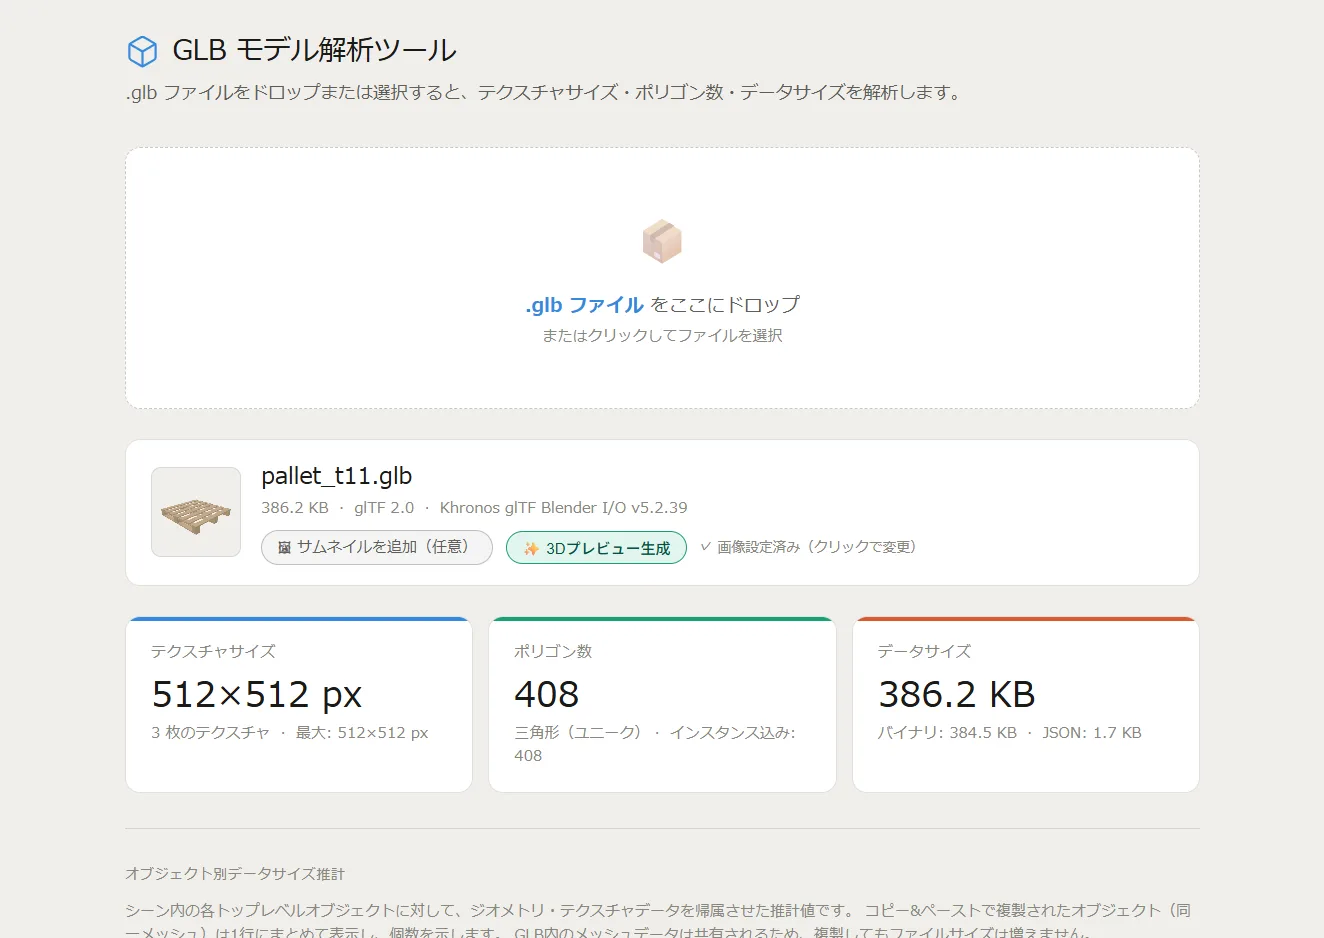
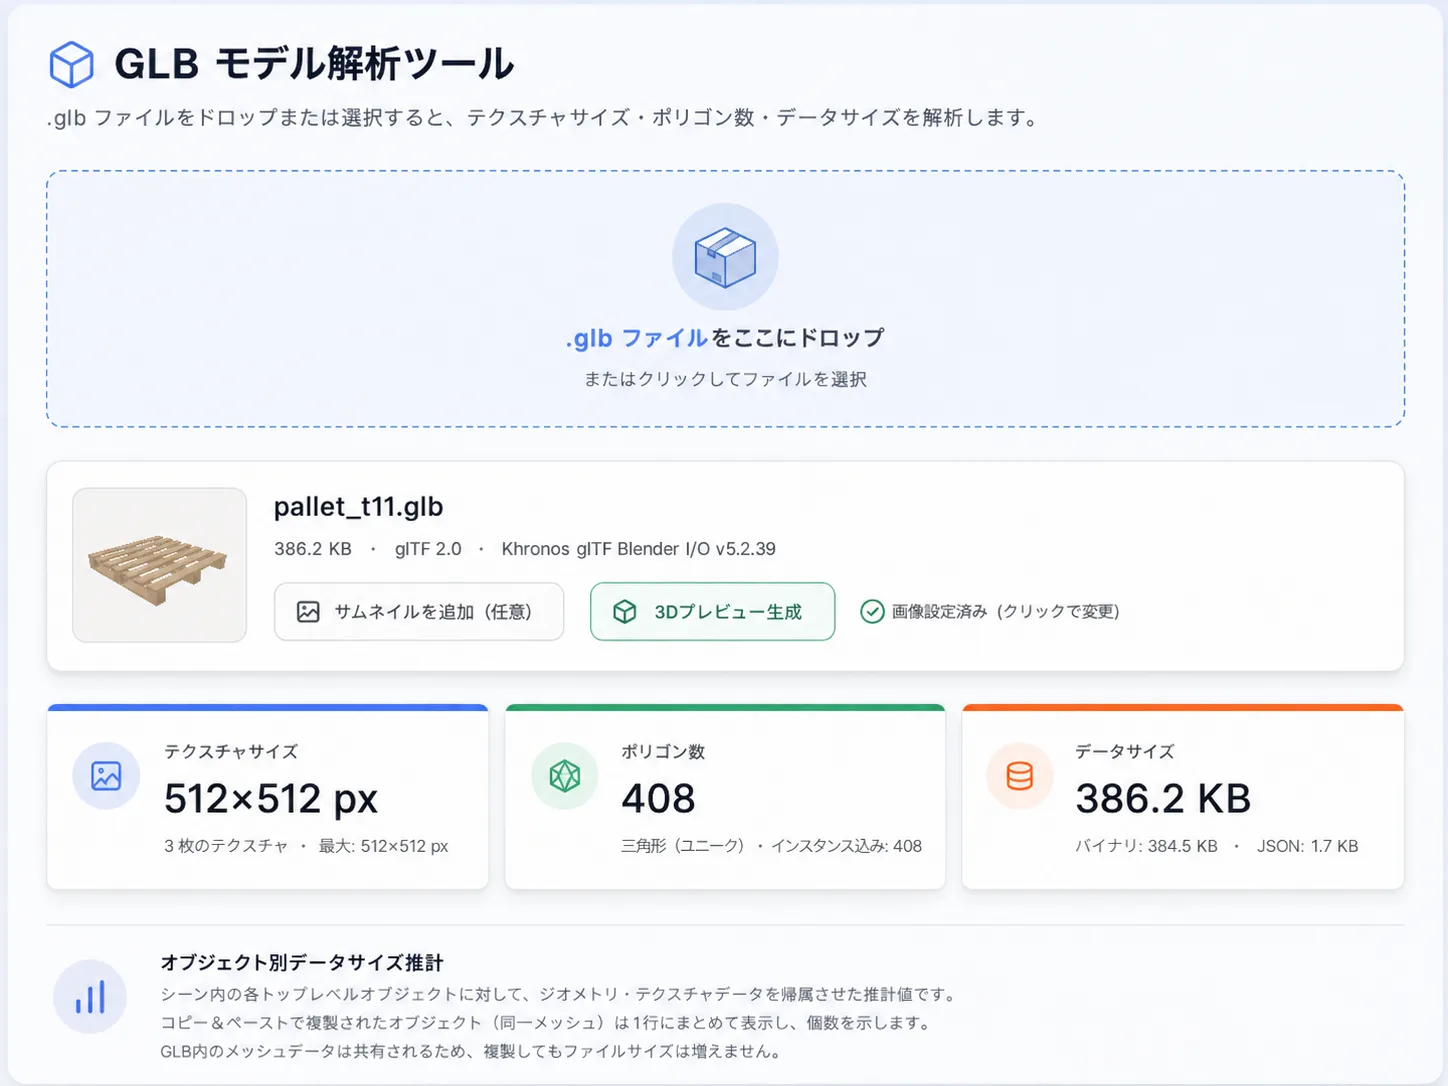
Update GLB Insight / GLB Forge project images
Swapped in the new screenshots (GLBAnalyzer2 / GLBOptimizer2) as the
16:9 covers; updated intrinsic image dimensions.

diff --git a/index.html b/index.html
@@ -4273,7 +4273,7 @@
                         onkeydown="if(event.key==='Enter'||event.key===' '){event.preventDefault();openProject('glbAnalyzer')}"
                         aria-label="Open GLB Insight details">
                         <div class="pw-cover">
-                            <img src="glbanalyzer.webp" alt="GLB Insight — 3D model analyzer" width="1324" height="938"
+                            <img src="glbanalyzer.webp" alt="GLB Insight — 3D model analyzer" width="1448" height="1086"
                                 loading="lazy">
                         </div>
                         <div class="pw-body">
@@ -4297,7 +4297,7 @@
                         aria-label="Open GLB Forge details">
                         <div class="pw-cover">
                             <img src="glboptimizer.webp" alt="GLB Forge — 3D model optimizer for UE5" width="1600"
-                                height="794" loading="lazy">
+                                height="936" loading="lazy">
                         </div>
                         <div class="pw-body">
                             <h3 class="pw-name" data-i18n="pjForgeName">GLB Forge</h3>
